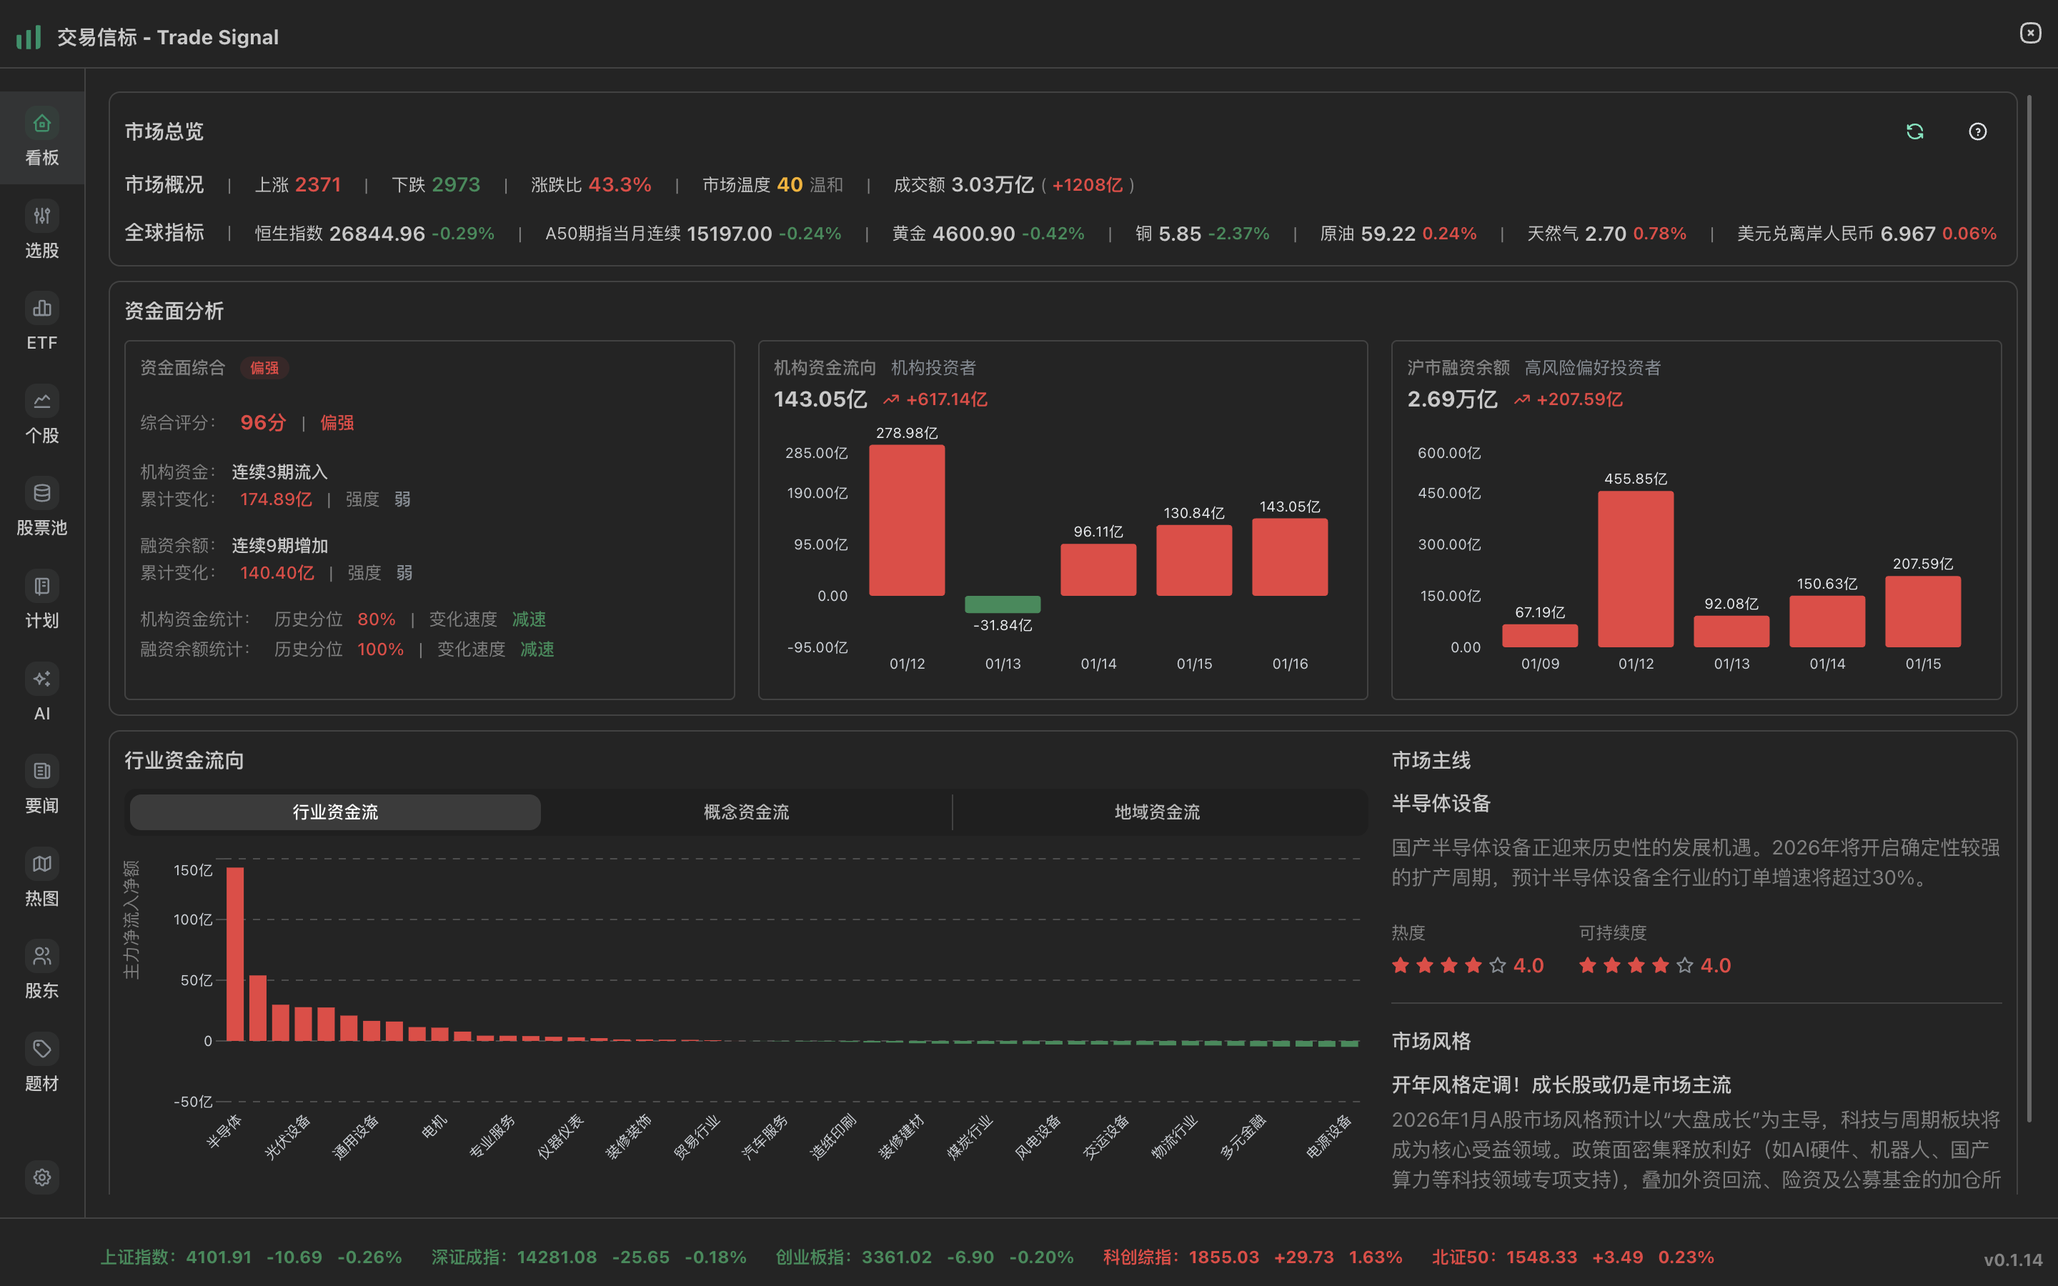
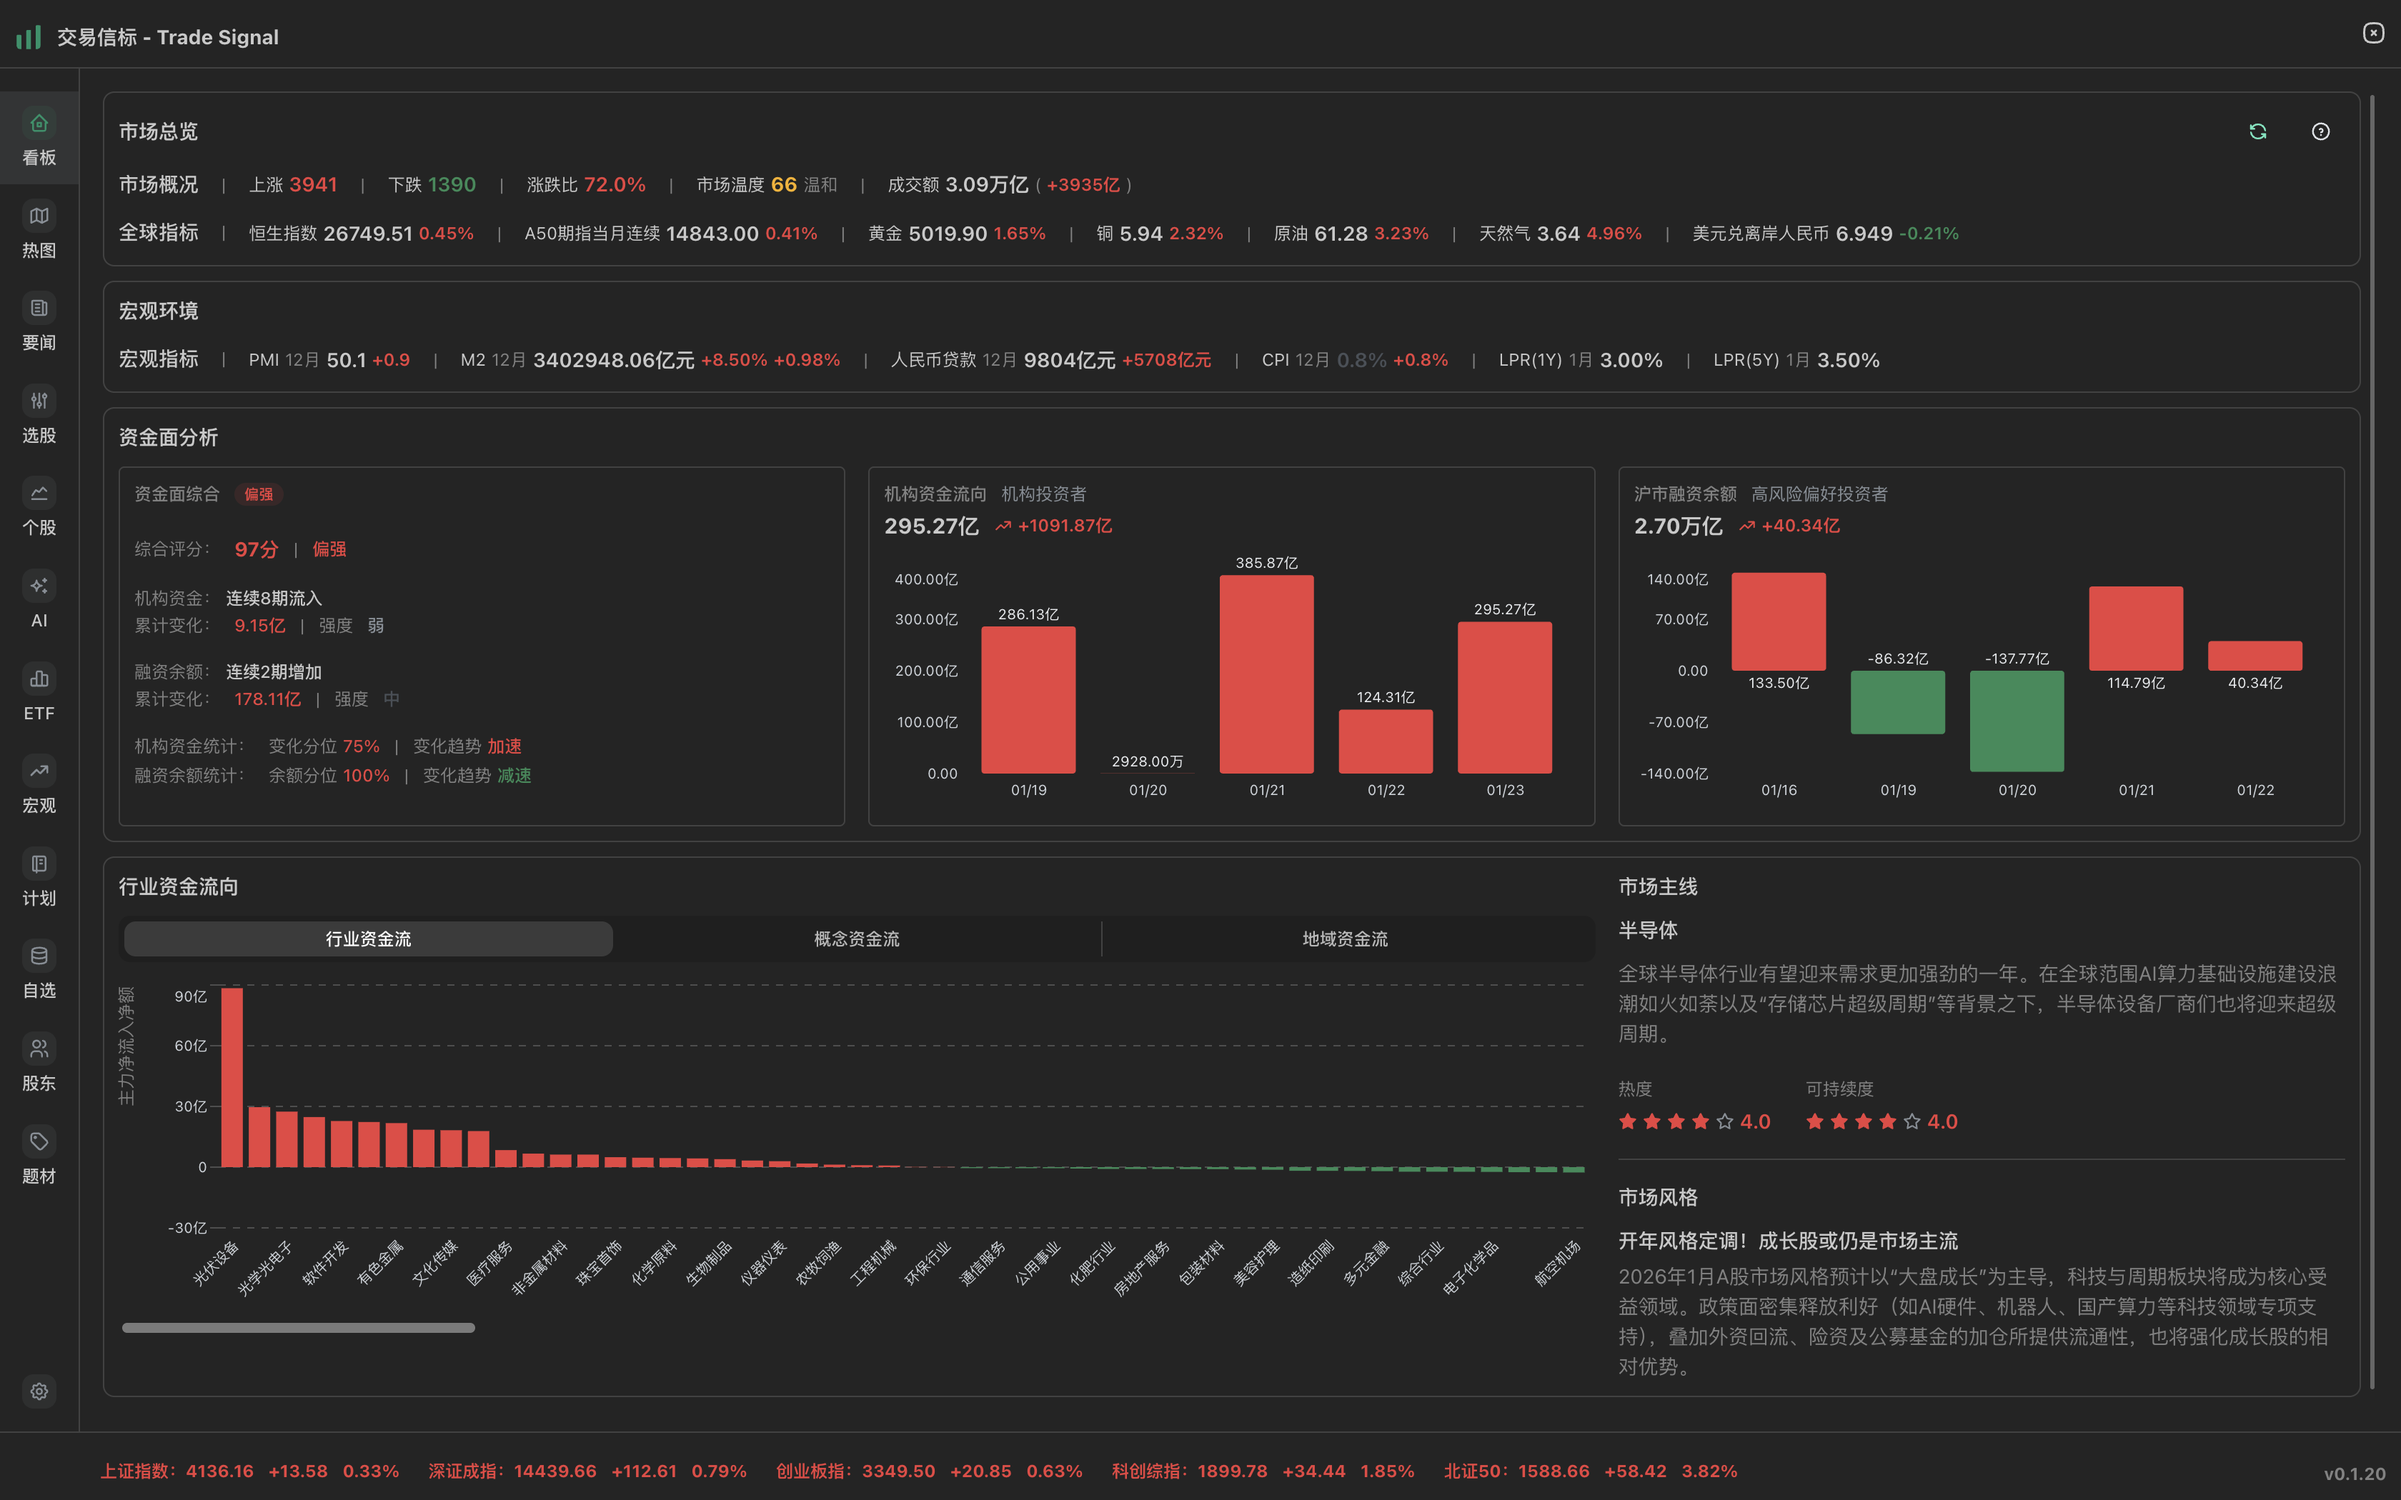
feat(版本日志): 添加 v0.1.20 更新内容，包括宏观经济指标页面和数据导出功能

diff --git a/app/signal-client/guides/_meta.ts b/app/signal-client/guides/_meta.ts
@@ -1,13 +1,25 @@
 export default {
+  // 核心工作流1：盘后复盘流程（每日必做，使用频率最高）
   dashboard: "看板",
-  "stock-screener": "股票筛选器",
-  "etf-screener": "ETF筛选器",
-  "stock-analysis": "个股分析",
-  "stock-pool": "股票池管理",
-  "trading-plans": "计划管理",
-  "ai-analysis": "AI分析",
+  hotmap: "热图", 
   news: "新闻资讯",
-  hotmap: "热图",
+  
+  // 核心工作流2：选股流程（符合"趋势为策"理念）
+  "stock-screener": "股票筛选器",
+  "stock-analysis": "个股分析",
+  "ai-analysis": "AI分析",
+  
+  // 核心工作流3：ETF配置流程（核心层，符合"价值为基"理念）
+  "etf-screener": "ETF筛选器",
+  "macro-indicators": "宏观指标",
+  
+  // 核心工作流4：交易计划管理流程（执行层，符合"风控优先"理念）
+  "trading-plans": "计划管理",
+  
+  // 核心工作流5：组合管理流程
+  "stock-pool": "股票池管理",
+  
+  // 深度分析辅助功能
   "shareholder-analysis": "股东分析",
   "topic-library": "题材库"
 };
